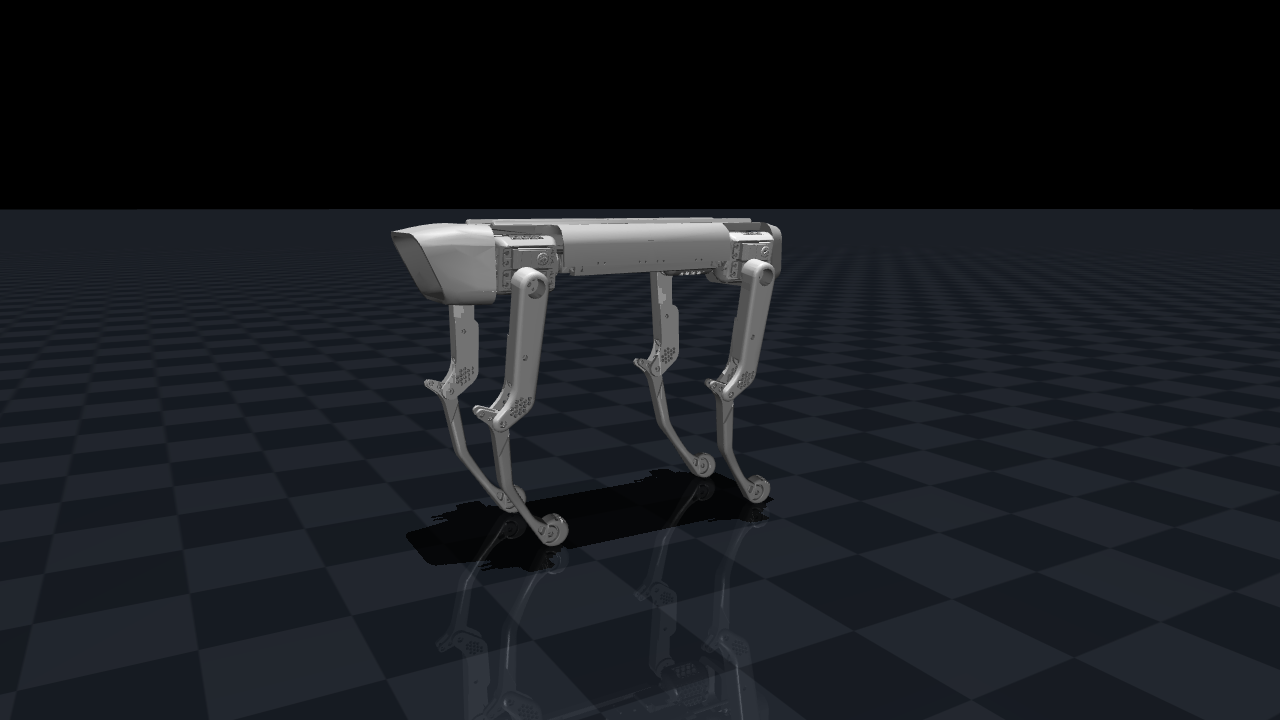
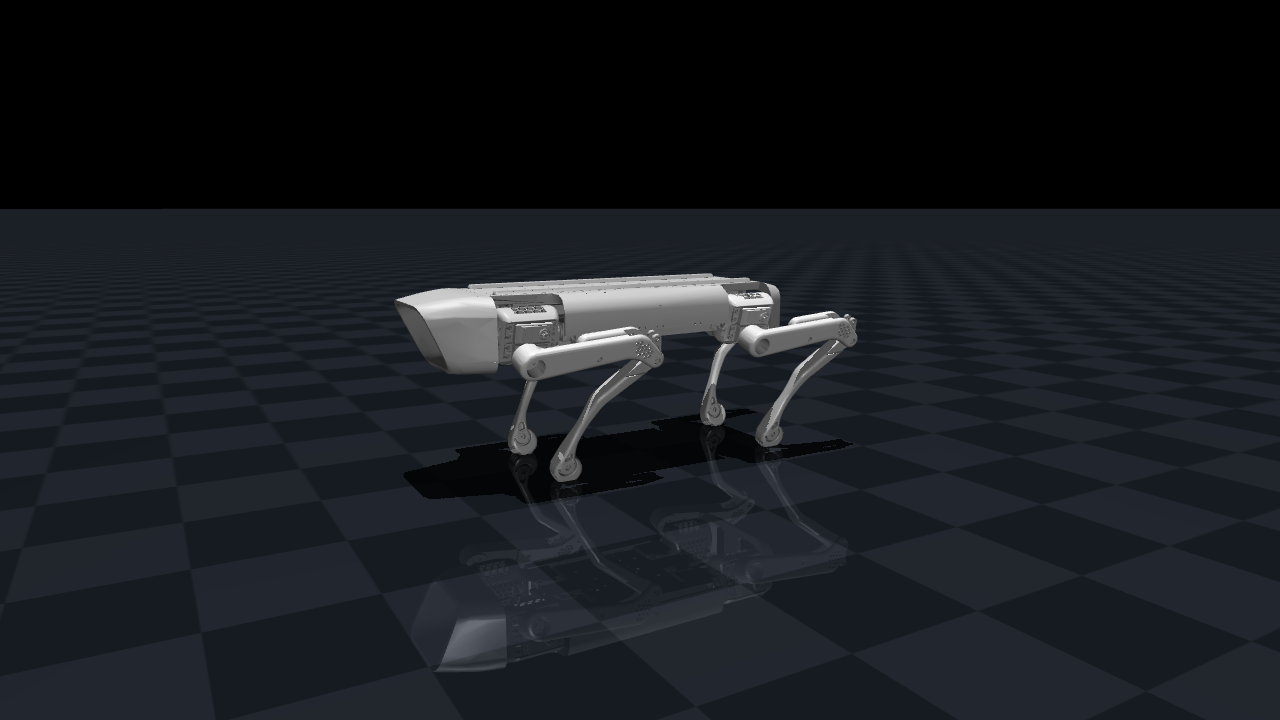
Ride height, and the answer to whether the servos can hold it
The owner drove the model to its tallest standing pose in the pose editor and
read 273.8 mm. Ride height is 40% below that: 164 mm. The solver, working from
the limits the owner measured, independently lands on 273.8 mm for the tallest
reachable stance - so the two agree.

The stance question is now answered, and it is not the servos:

    height   worst joint   torque    margin
     164mm      fr_calf     0.55      3.58x     <- ride height
     274mm      fr_calf     0.35      5.53x

At ride height every joint holds with more than three times the torque it
needs, and the margin never drops below 3.5x anywhere in the range. 12 servos
at 1.96 N-m hold 2378.70 g comfortably.

find_stance now reads the limits out of the model rather than keeping its own
copy, so there is nothing left to drift. The earlier version derived a
"legs straight down" reference and applied the limits around that; with the
limits now measured against the sitting pose, which is how the CAD was
exported, no offset is needed at all.

diff --git a/scripts/find_stance.py b/scripts/find_stance.py
@@ -195,11 +195,13 @@ def travel(rb: Robot, ref, signs, owner) -> dict[tuple[str, str], tuple[float, f
 
 def solve(rb: Robot, height: float, stance_scale: float = 1.0):
     """Angles that put each foot on the floor, under its own hip."""
+    # The model's own limits. They are the owner's, measured in the pose editor
+    # against this geometry, and written in by tools/prepare_model.py - so there
+    # is no second copy here to drift out of date.
     keys = [(leg, seg) for leg in LEGS for seg in ("hip", "thigh", "calf")]
-    bounds = solve.bounds
-    lo = np.array([bounds[k][0] for k in keys])
-    hi = np.array([bounds[k][1] for k in keys])
-    x0 = np.clip(np.array([solve.start[k] for k in keys]), lo + 1e-4, hi - 1e-4)
+    lo = np.array([rb.limits(*k)[0] for k in keys])
+    hi = np.array([rb.limits(*k)[1] for k in keys])
+    x0 = np.clip(np.zeros(len(keys)), lo + 1e-4, hi - 1e-4)
 
     def residual(x):
         rb.set_pose(height, dict(zip(keys, x)))
@@ -273,26 +275,18 @@ def main() -> int:
     print(f"model    {rb.mass*1000:.1f} g, {len(rb.joints)} hinges")
     print(f"servo    {cap} N-m stall, {servo['no_load_speed_rad_s']} rad/s")
 
-    ref = reference_pose(rb)
-    signs = joint_signs(rb)
-    solve.bounds = travel(rb, ref, signs, owner)
-    solve.start = ref
-
-    rb.set_pose(0.5, ref)
-    reach = float(np.mean([rb.hip_world(l)[2] - rb.foot_world(l)[2] for l in LEGS]))
-    hip_off = float(np.mean([rb.hip_world(l)[2] for l in LEGS])) - 0.5
-    tall = reach + hip_off
-    print(f"\nreference pose - legs straight down, which is the zero the owner's")
-    print(f"limits were measured from. Reach hip to foot {reach*1000:.1f} mm,")
-    print(f"so the tallest the trunk can stand is {tall*1000:.1f} mm.\n")
-    print("  offset of the CAD export's zero from that reference, degrees:")
-    for leg in LEGS:
-        a = [np.rad2deg(ref[(leg, s)]) for s in ("hip", "thigh", "calf")]
-        print(f"    {leg:>4}  hip {a[0]:+8.1f}   thigh {a[1]:+8.1f}   calf {a[2]:+8.1f}")
-    print()
+    # How tall it can stand: climb until the legs run out of travel.
+    tall = 0.0
+    for h in np.arange(0.06, 0.40, 0.002):
+        if solve(rb, float(h))[1] <= 0.004:
+            tall = float(h)
+    ride = tall * (1 - cfg["stance"]["ride_drop"]) if "stance" in cfg else tall * 0.6
+    print(f"\ntallest it can stand   {tall*1000:.1f} mm")
+    print(f"ride height, 40% down  {ride*1000:.1f} mm\n")
 
     heights = ([args.height] if args.height
-               else [round(tall * f, 4) for f in np.arange(0.55, 1.001, 0.05)])
+               else sorted({round(tall * f, 4) for f in np.arange(0.5, 1.001, 0.05)}
+                           | {round(ride, 4)}))
     print(f"{'height':>8} {'of max':>7}  {'reach err':>9}  {'worst joint':>12}  "
           f"{'torque':>7}  {'margin':>7}  verdict")
     print("-" * 76)
@@ -309,10 +303,11 @@ def main() -> int:
         (leg, seg), worst = max(tau.items(), key=lambda kv: kv[1])
         margin = cap / worst if worst else float("inf")
         ok = margin >= 1.5
+        mark = "  <- ride height" if abs(h - ride) < 1e-6 else ""
         print(f"{h*1000:7.0f}mm {frac:6.0%}  {err*1000:8.1f}mm   {leg + '_' + seg:>12}  "
-              f"{worst:6.2f}   {margin:6.2f}x  {'holds' if ok else 'TOO WEAK'}")
-        if ok and (best is None or margin < best[3]):
-            best = (h, angles, tau, margin)   # tallest pose that still holds
+              f"{worst:6.2f}   {margin:6.2f}x  {'holds' if ok else 'TOO WEAK'}{mark}")
+        if abs(h - ride) < 1e-6 and ok:
+            best = (h, angles, tau, margin)
 
     if best is None:
         print("\nNo height works. Either the mass is wrong or the servos are too weak.")
@@ -340,8 +335,7 @@ def main() -> int:
                        for (leg, seg), v in angles.items()},
         "holding_torque_nm": {f"{leg}_{seg}": round(float(v), 4) for (leg, seg), v in tau.items()},
         "servo_stall_nm": float(cap),
-        "zero_offset_deg": {f"{leg}_{seg}": round(float(np.rad2deg(v)), 3)
-                            for (leg, seg), v in ref.items()},
+        "zero": "the sitting pose, as exported from SolidWorks",
     }, sort_keys=False))
     print(f"\nwrote {(OUT / 'stance.yaml').relative_to(ROOT)}")
 
